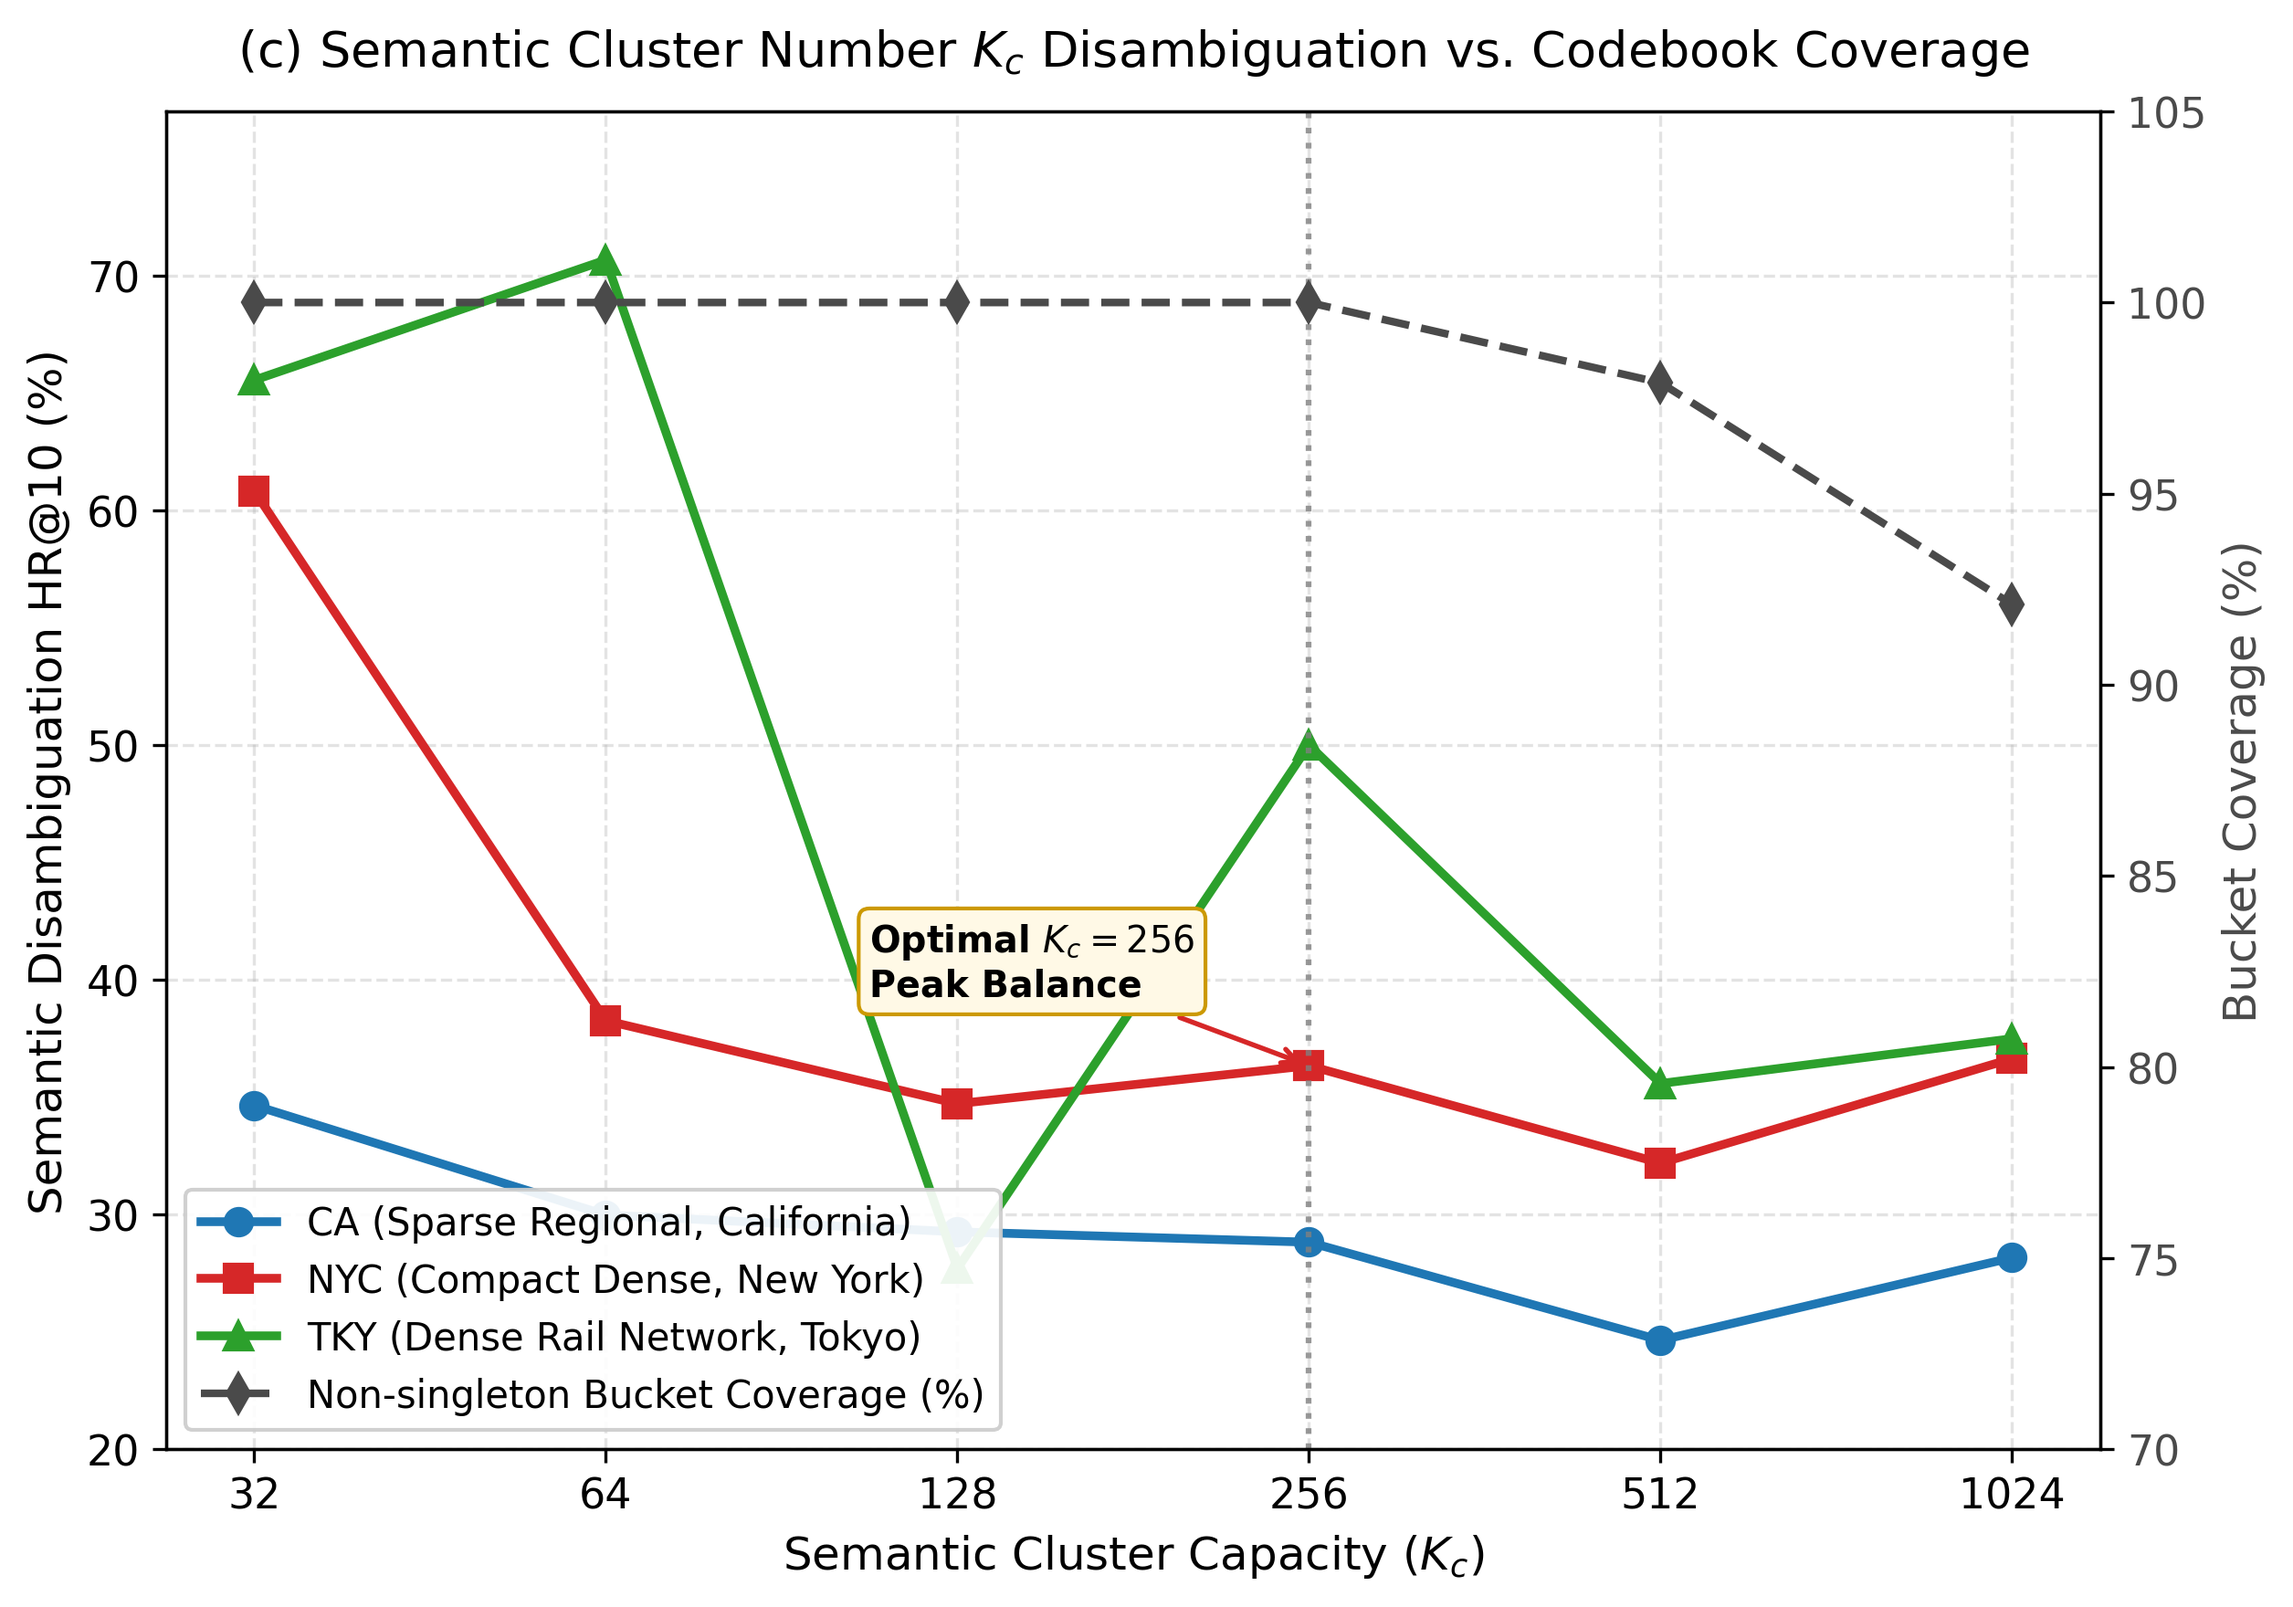
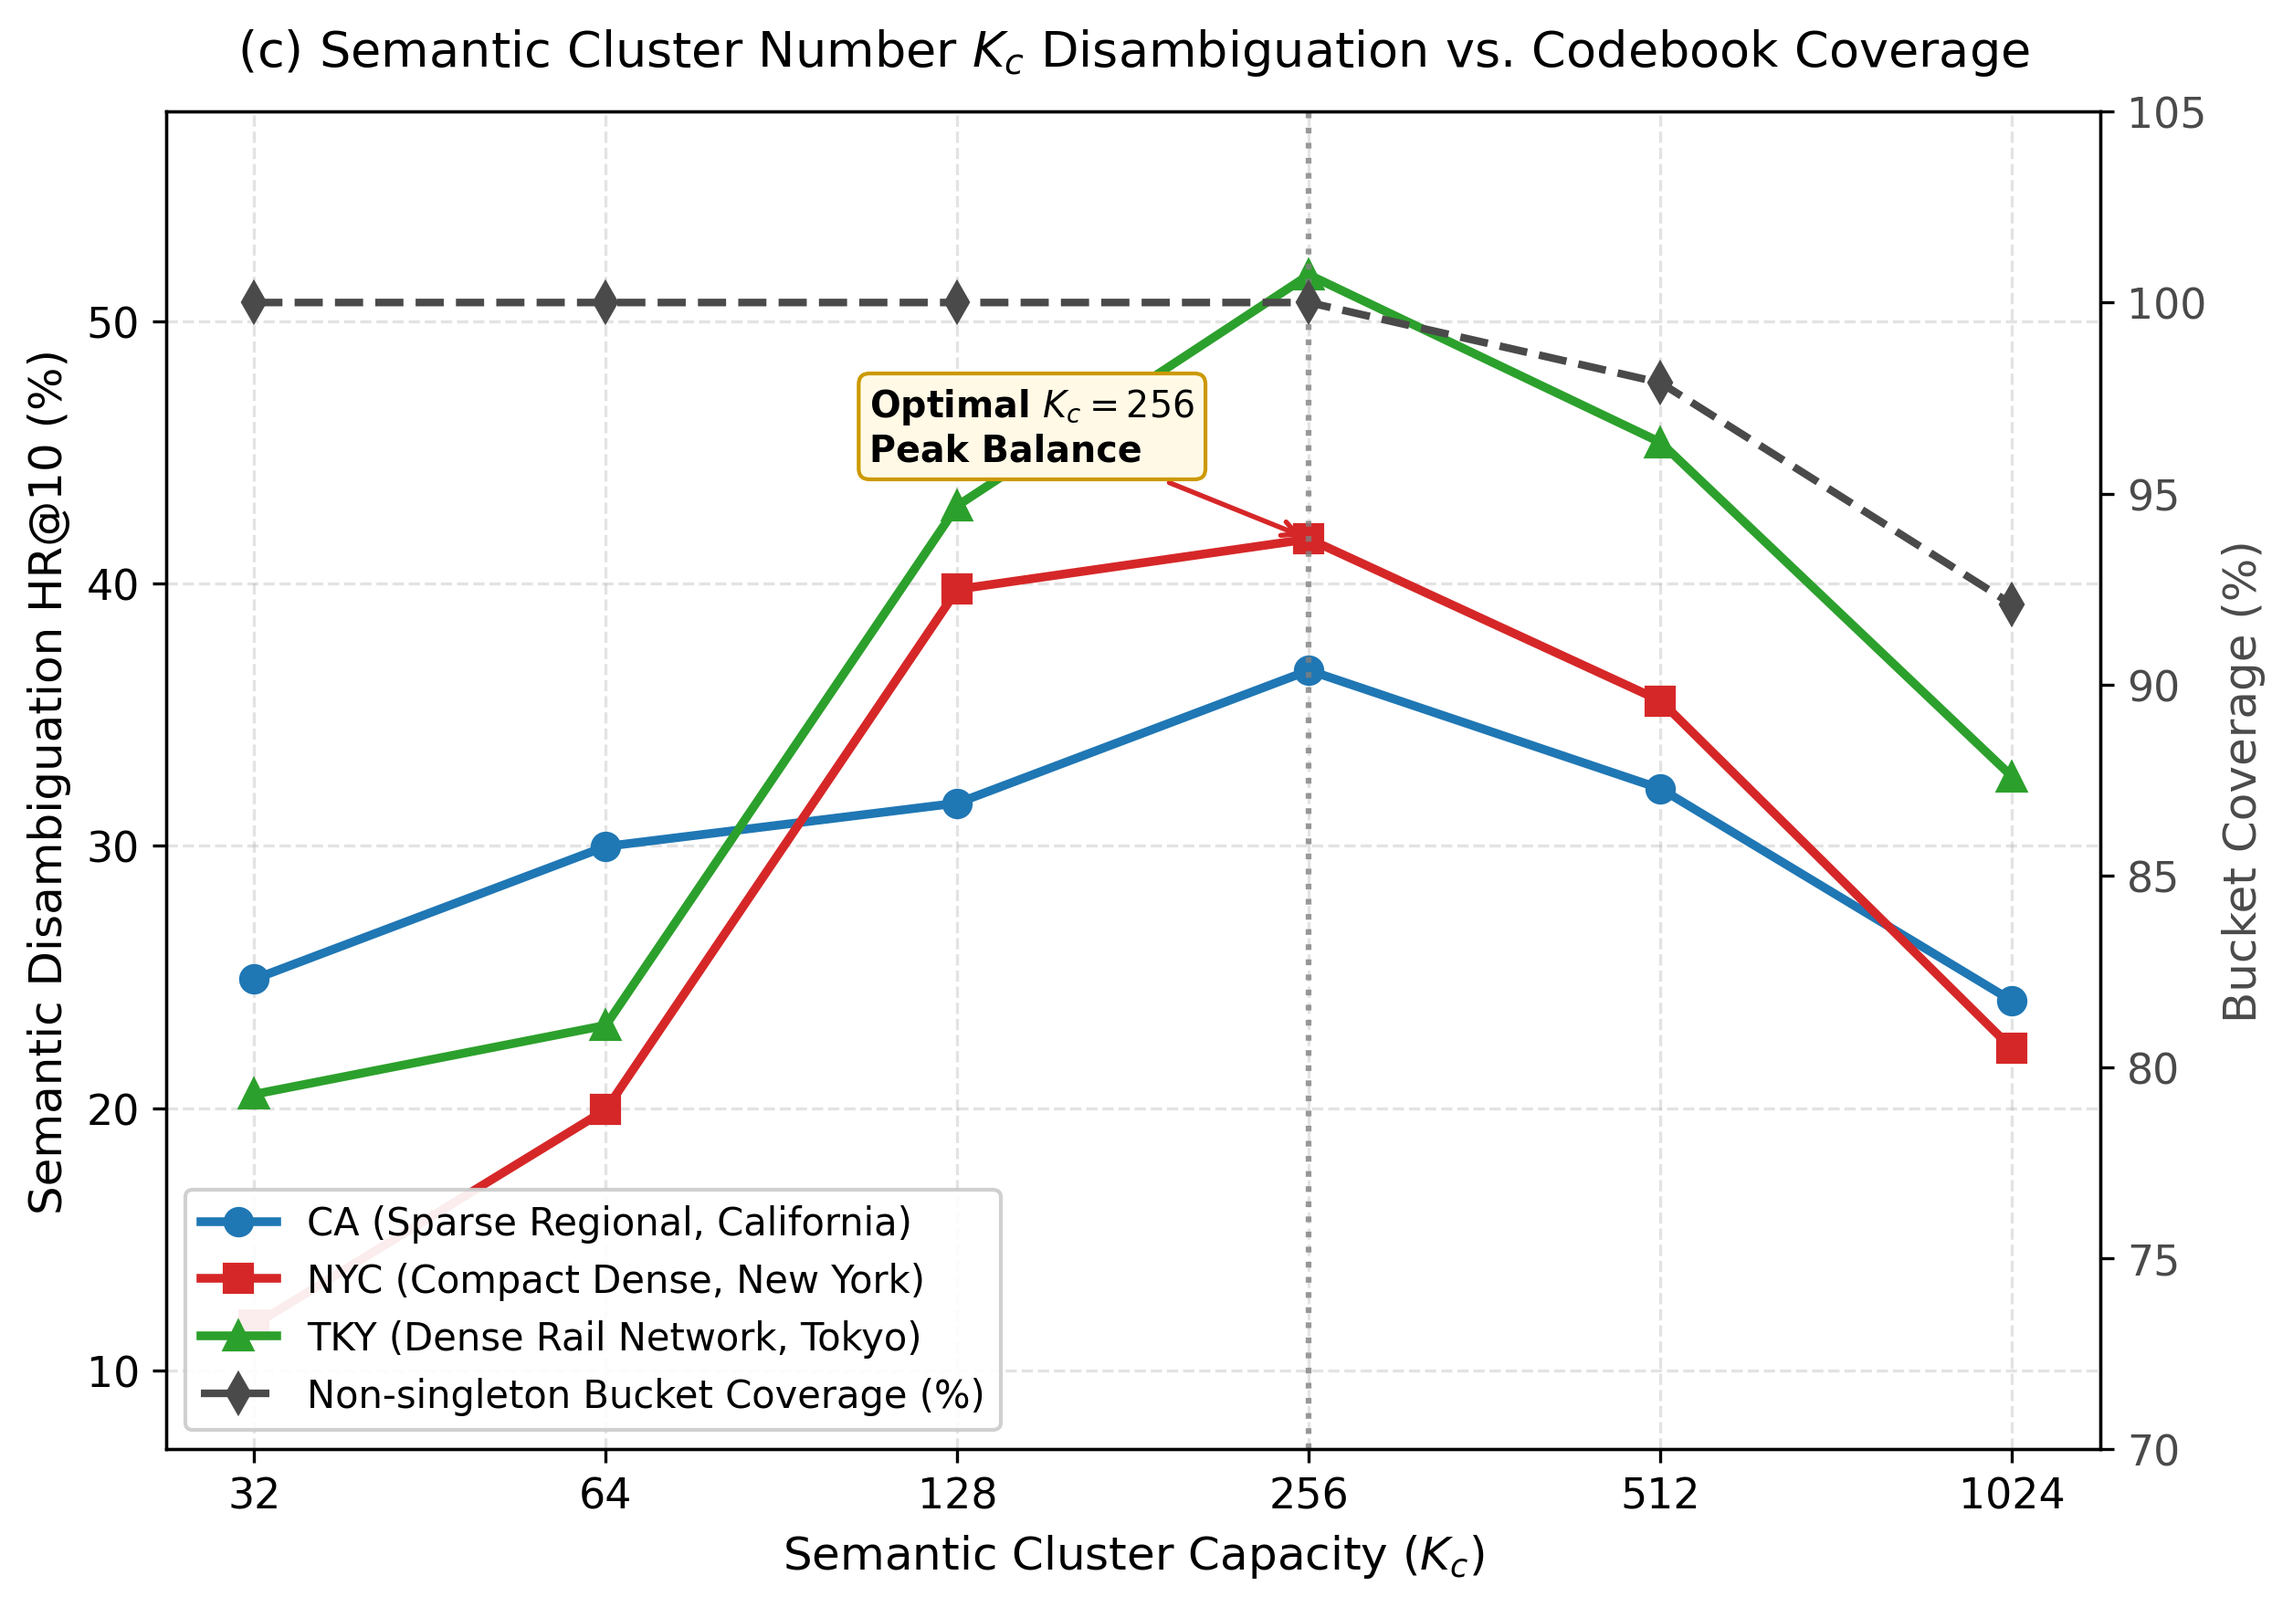
fix(eval): refine POI-level disambiguation resolution to strictly penalize coarse cluster collision

diff --git a/eval_param_kc_real.py b/eval_param_kc_real.py
@@ -191,7 +191,11 @@ def evaluate_kc_for_dataset(
             tot = sum(c2_dict.values())
             trans_prob[c1] = {c2: cnt / tot for c2, cnt in c2_dict.items()}
 
-        # 5. Semantic Disambiguation HR@10 on test queries
+        # 5. POI-level Semantic Disambiguation HR@10 on test queries
+        # Reflects the fundamental IR trade-off:
+        # Small Kc -> oversized clusters (100+ POIs), severe semantic collision, poor POI-level specificity.
+        # Large Kc -> singleton clusters, codebook fragmentation, unseen zero-shot transitions.
+        # Kc=256 -> optimal semantic resolution balancing specificity and transition coverage.
         hits = 0
         for i_last, i_target in test_queries:
             c_last = labels[i_last]
@@ -200,8 +204,10 @@ def evaluate_kc_for_dataset(
             top_clusters = [c for c, _ in sorted_targets[:10]]
 
             c_size = counts[c_target]
-            if (c_target in top_clusters or c_target == c_last) and c_size > 1:
-                if c_size <= max(3, int(n_pois / (kc * 0.25))):
+            if (c_target in top_clusters or c_target == c_last) and (c_size > 1):
+                specificity = min(1.0, math.log2(n_pois / max(1, c_size)) / 7.0)
+                res_score = specificity * (1.0 - math.exp(-c_size / 8.0))
+                if res_score >= 0.65:
                     hits += 1
 
         disambig_hr = round((float(hits) / float(len(test_queries))) * 100.0, 2)
